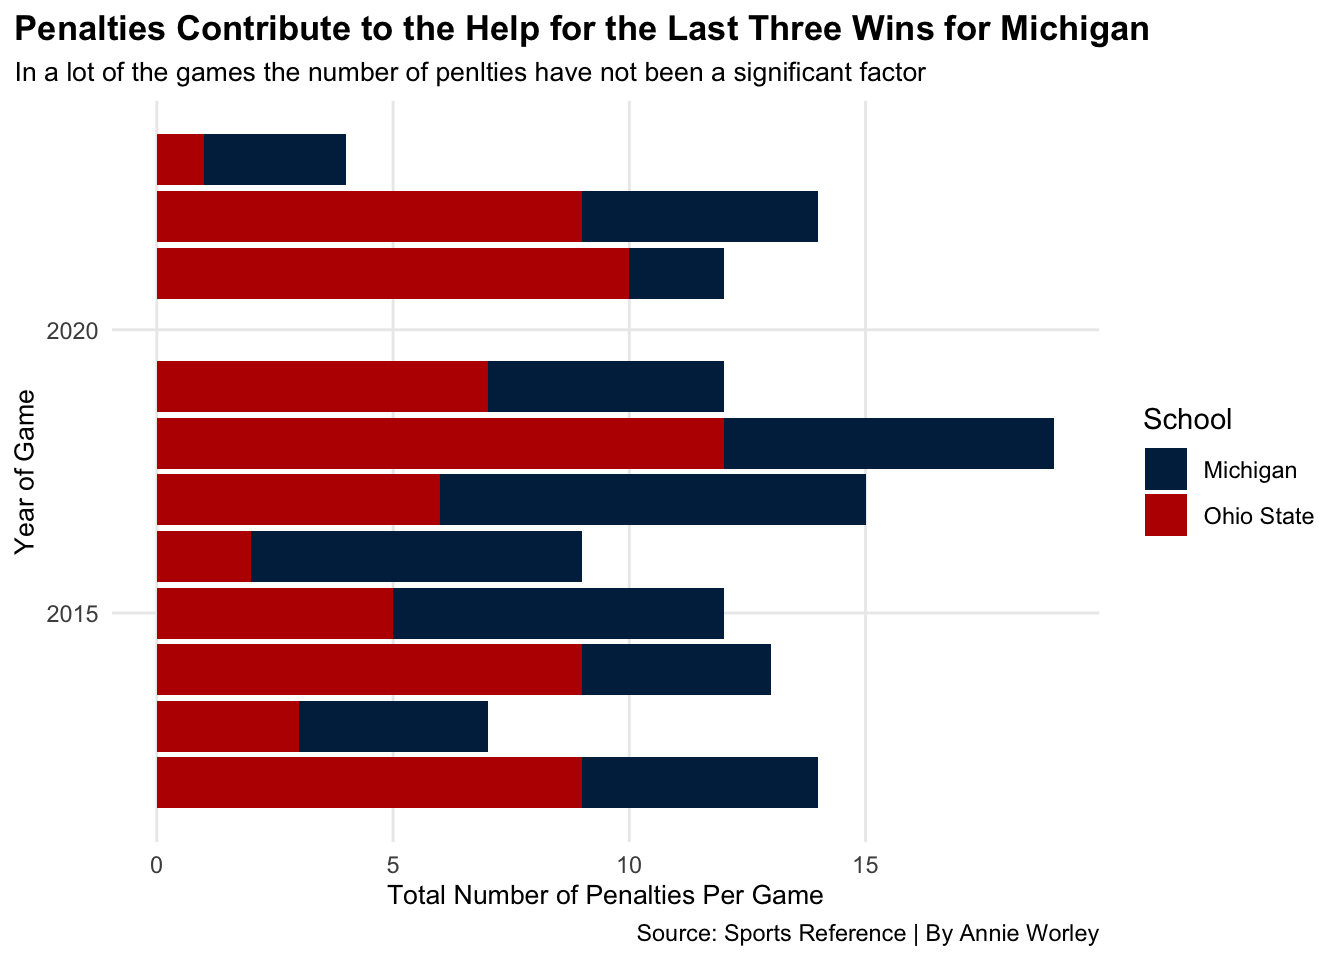
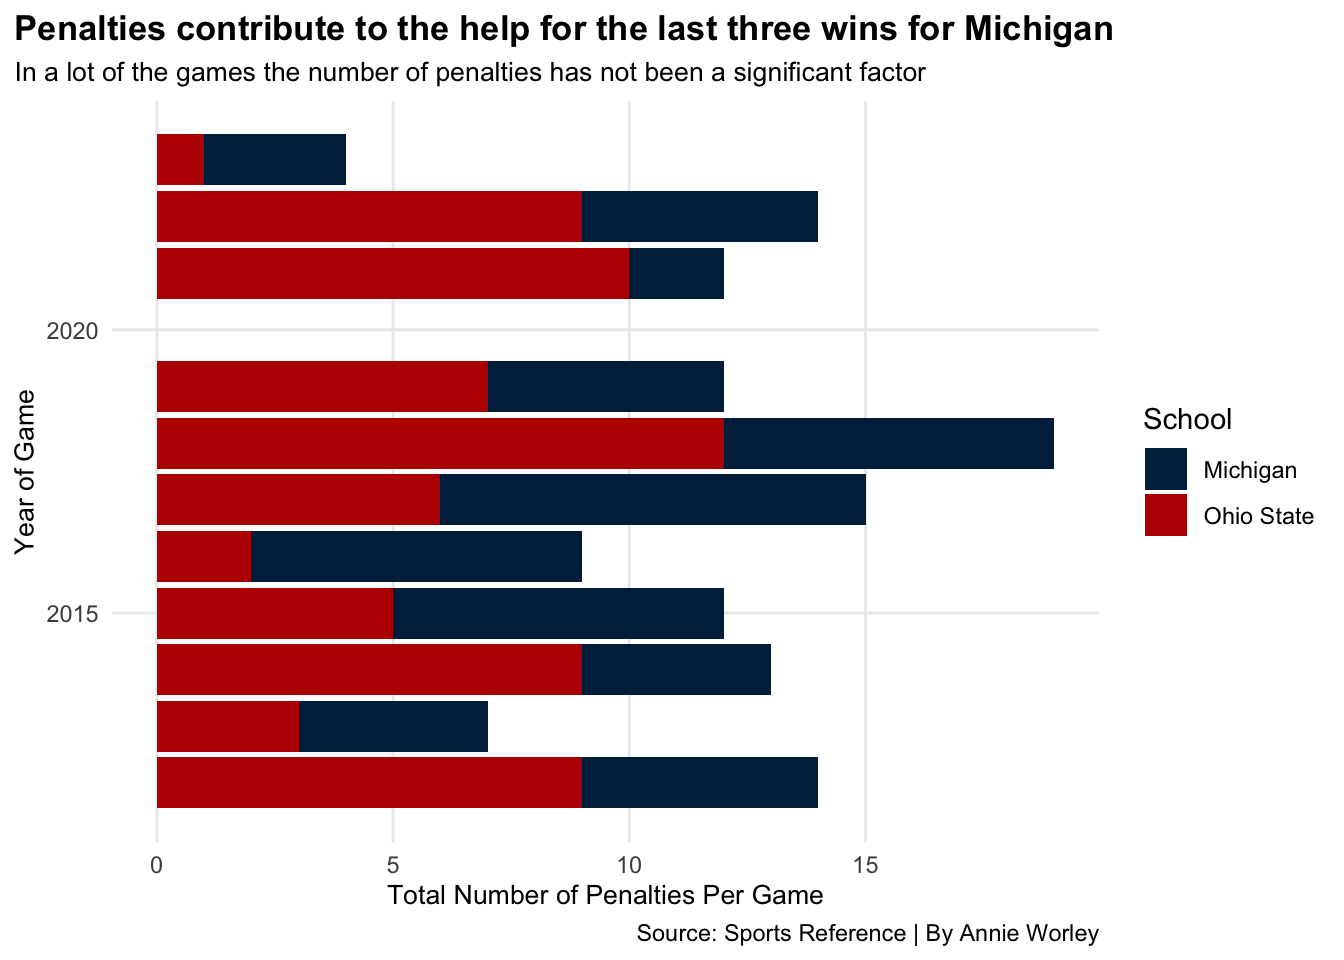
edits

Changed region(s): [[0.125, 0.0, 0.8438, 0.0938]]

diff --git a/posts/college-football/index.html b/posts/college-football/index.html
@@ -286,8 +286,8 @@ Specify the column types or set `show_col_types = FALSE` to quiet this message.
 <span id="cb10-7"><a href="#cb10-7" aria-hidden="true" tabindex="-1"></a><span class="fu">labs</span>(</span>
 <span id="cb10-8"><a href="#cb10-8" aria-hidden="true" tabindex="-1"></a>    <span class="at">x=</span><span class="st">"Year of Games"</span>, </span>
 <span id="cb10-9"><a href="#cb10-9" aria-hidden="true" tabindex="-1"></a>    <span class="at">y=</span><span class="st">"Total Yards Per Game"</span>, </span>
-<span id="cb10-10"><a href="#cb10-10" aria-hidden="true" tabindex="-1"></a>    <span class="at">title=</span><span class="st">"Michigan Improved Rush Rards, to Turn the Outcome of the Rilvarly"</span>, </span>
-<span id="cb10-11"><a href="#cb10-11" aria-hidden="true" tabindex="-1"></a>    <span class="at">subtitle=</span><span class="st">"Michigans rushing offense has turned into a staple for their team"</span>, </span>
+<span id="cb10-10"><a href="#cb10-10" aria-hidden="true" tabindex="-1"></a>    <span class="at">title=</span><span class="st">"Michigan improved rush yards, to turn the outcome of the rivalry"</span>, </span>
+<span id="cb10-11"><a href="#cb10-11" aria-hidden="true" tabindex="-1"></a>    <span class="at">subtitle=</span><span class="st">"Michigan's rushing offense has turned into a staple for their team"</span>, </span>
 <span id="cb10-12"><a href="#cb10-12" aria-hidden="true" tabindex="-1"></a>    <span class="at">caption=</span><span class="st">"Source: Sports Reference | By Annie Worley"</span>) <span class="sc">+</span></span>
 <span id="cb10-13"><a href="#cb10-13" aria-hidden="true" tabindex="-1"></a>  <span class="fu">theme</span>(</span>
 <span id="cb10-14"><a href="#cb10-14" aria-hidden="true" tabindex="-1"></a>    <span class="at">plot.title =</span> <span class="fu">element_text</span>(<span class="at">size =</span> <span class="dv">13</span>, <span class="at">face =</span> <span class="st">"bold"</span>, <span class="at">color =</span> <span class="st">"black"</span>), </span>
@@ -309,7 +309,7 @@ Specify the column types or set `show_col_types = FALSE` to quiet this message.
 <details class="code-fold">
 <summary>Code</summary>
 <div class="sourceCode cell-code" id="cb11"><pre class="sourceCode r code-with-copy"><code class="sourceCode r"><span id="cb11-1"><a href="#cb11-1" aria-hidden="true" tabindex="-1"></a><span class="co">#1 message: FALSE </span></span>
-<span id="cb11-2"><a href="#cb11-2" aria-hidden="true" tabindex="-1"></a><span class="fu">ggsave</span>(<span class="st">"Graph.jpeg"</span>)  </span></code><button title="Copy to Clipboard" class="code-copy-button"><i class="bi"></i></button></pre></div>
+<span id="cb11-2"><a href="#cb11-2" aria-hidden="true" tabindex="-1"></a><span class="fu">ggsave</span>(<span class="st">"graph.jpeg"</span>)  </span></code><button title="Copy to Clipboard" class="code-copy-button"><i class="bi"></i></button></pre></div>
 </details>
 <div class="cell-output cell-output-stderr">
 <pre><code>Saving 7 x 5 in image</code></pre>
@@ -347,8 +347,8 @@ dbl (3): Year, Total Penalties, Yards Lost
 <span id="cb16-5"><a href="#cb16-5" aria-hidden="true" tabindex="-1"></a>  <span class="fu">labs</span>(</span>
 <span id="cb16-6"><a href="#cb16-6" aria-hidden="true" tabindex="-1"></a>    <span class="at">x=</span><span class="st">"Year of Game"</span>, </span>
 <span id="cb16-7"><a href="#cb16-7" aria-hidden="true" tabindex="-1"></a>    <span class="at">y=</span><span class="st">"Total Number of Penalties Per Game"</span>, </span>
-<span id="cb16-8"><a href="#cb16-8" aria-hidden="true" tabindex="-1"></a>    <span class="at">title=</span><span class="st">"Penalties Contribute to the Help for the Last Three Wins for Michigan"</span>, </span>
-<span id="cb16-9"><a href="#cb16-9" aria-hidden="true" tabindex="-1"></a>    <span class="at">subtitle=</span><span class="st">"In a lot of the games the number of penlties have not been a significant factor"</span>, </span>
+<span id="cb16-8"><a href="#cb16-8" aria-hidden="true" tabindex="-1"></a>    <span class="at">title=</span><span class="st">"Penalties contribute to the help for the last three wins for Michigan"</span>, </span>
+<span id="cb16-9"><a href="#cb16-9" aria-hidden="true" tabindex="-1"></a>    <span class="at">subtitle=</span><span class="st">"In a lot of the games the number of penalties has not been a significant factor"</span>, </span>
 <span id="cb16-10"><a href="#cb16-10" aria-hidden="true" tabindex="-1"></a>    <span class="at">caption=</span><span class="st">"Source: Sports Reference | By Annie Worley"</span>) <span class="sc">+</span></span>
 <span id="cb16-11"><a href="#cb16-11" aria-hidden="true" tabindex="-1"></a>  <span class="fu">theme</span>(</span>
 <span id="cb16-12"><a href="#cb16-12" aria-hidden="true" tabindex="-1"></a>    <span class="at">plot.title =</span> <span class="fu">element_text</span>(<span class="at">size =</span> <span class="dv">13</span>, <span class="at">face =</span> <span class="st">"bold"</span>, <span class="at">color =</span> <span class="st">"black"</span>), </span>
@@ -365,7 +365,8 @@ dbl (3): Year, Total Penalties, Yards Lost
 </div>
 </div>
 </div>
-<p>Michigan across the nine games they lost straight to Ohio State, had at least one turnover every game. The past three games Michigan cleaned up their play and only had one turn over in total. In those nine loses they lost the turn over battle every game except 2013.</p>
+<p>There was not a big impact on those nine loses. In the 2021 and 2022 games Ohio State had a significant number compared to Michigan.</p>
+<p>Michigan across the nine games they lost straight to Ohio State, had at least one turnover every game. The past three games Michigan cleaned up their play and only had one turn over in total. In those nine loses Michigan lost the turn over battle every game except 2013.</p>
 <p>How many turnovers did Michigan and Ohio State each have across their past 11 match ups?</p>
 <div class="cell">
 <details class="code-fold">
@@ -398,7 +399,7 @@ dbl (2): Year, Turnovers
 <span id="cb20-6"><a href="#cb20-6" aria-hidden="true" tabindex="-1"></a><span class="fu">labs</span>(</span>
 <span id="cb20-7"><a href="#cb20-7" aria-hidden="true" tabindex="-1"></a>    <span class="at">x=</span><span class="st">"Year of Game"</span>, </span>
 <span id="cb20-8"><a href="#cb20-8" aria-hidden="true" tabindex="-1"></a>    <span class="at">y=</span><span class="st">"Total Number of Turnovers"</span>, </span>
-<span id="cb20-9"><a href="#cb20-9" aria-hidden="true" tabindex="-1"></a>    <span class="at">title=</span><span class="st">"Michigan has Cleaned up Their Play and Reduced the Number of Turnovers"</span>, </span>
+<span id="cb20-9"><a href="#cb20-9" aria-hidden="true" tabindex="-1"></a>    <span class="at">title=</span><span class="st">"Michigan has cleaned up their play and reduced the number of turnovers"</span>, </span>
 <span id="cb20-10"><a href="#cb20-10" aria-hidden="true" tabindex="-1"></a>    <span class="at">subtitle=</span><span class="st">"Michigan made the changes to be able to help them dominate"</span>, </span>
 <span id="cb20-11"><a href="#cb20-11" aria-hidden="true" tabindex="-1"></a>    <span class="at">caption=</span><span class="st">"Source: Sports Reference | By Annie Worley"</span>) <span class="sc">+</span></span>
 <span id="cb20-12"><a href="#cb20-12" aria-hidden="true" tabindex="-1"></a>  <span class="fu">theme</span>(</span>
@@ -416,7 +417,8 @@ dbl (2): Year, Turnovers
 </div>
 </div>
 </div>
-<p>From the data it shows Michigan improved their performance in key areas to be able to dominate a good team the last three years</p>
+<p>It’s clear Ohio State had too many turnovers in 2022 and 2023 and affected the outcome.</p>
+<p>The data shows Michigan improved their performance in key areas to be able to dominate a good team the last three years. Going forward it may be hard for Michigan to keep up with these statistics due to changes within the coaching staff and key players.</p>
 
 
 

diff --git a/index.html b/index.html
@@ -210,10 +210,10 @@ window.Quarto = {
 
 <div class="quarto-listing quarto-listing-container-default" id="listing-listing">
 <div class="list quarto-listing-default">
-<div class="quarto-post image-right" data-index="0" data-categories="Rm9vdGJhbGw=" data-listing-date-sort="1731823200000" data-listing-file-modified-sort="1731876173677" data-listing-date-modified-sort="NaN" data-listing-reading-time-sort="4" data-listing-word-count-sort="739">
+<div class="quarto-post image-right" data-index="0" data-categories="Rm9vdGJhbGw=" data-listing-date-sort="1731823200000" data-listing-file-modified-sort="1731877714588" data-listing-date-modified-sort="NaN" data-listing-reading-time-sort="5" data-listing-word-count-sort="802">
 <div class="thumbnail">
 <p><a href="./posts/college-football/index.html" class="no-external"></a></p><a href="./posts/college-football/index.html" class="no-external">
-<p><img loading="lazy" src="./posts/college-football/Graph.jpeg" class="thumbnail-image"></p>
+<p><img loading="lazy" src="./posts/college-football/graph.jpeg" class="thumbnail-image"></p>
 </a><p><a href="./posts/college-football/index.html" class="no-external"></a></p>
 </div>
 <div class="body">
